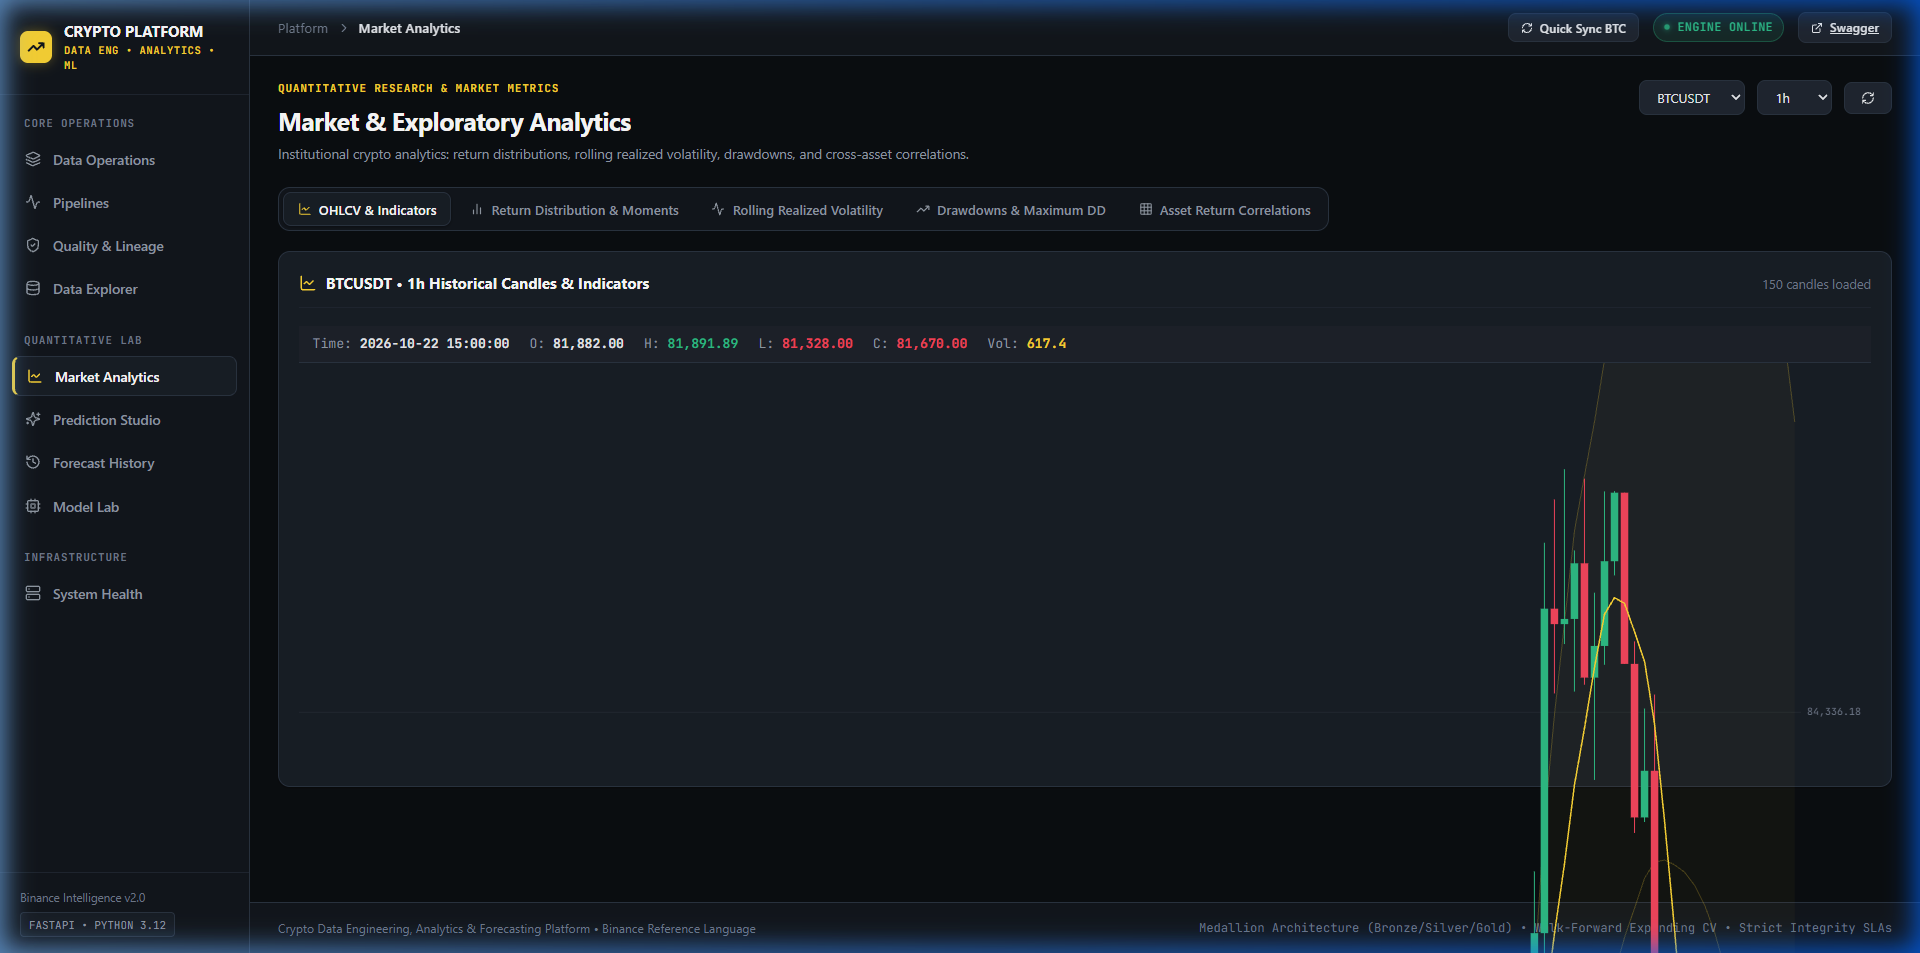
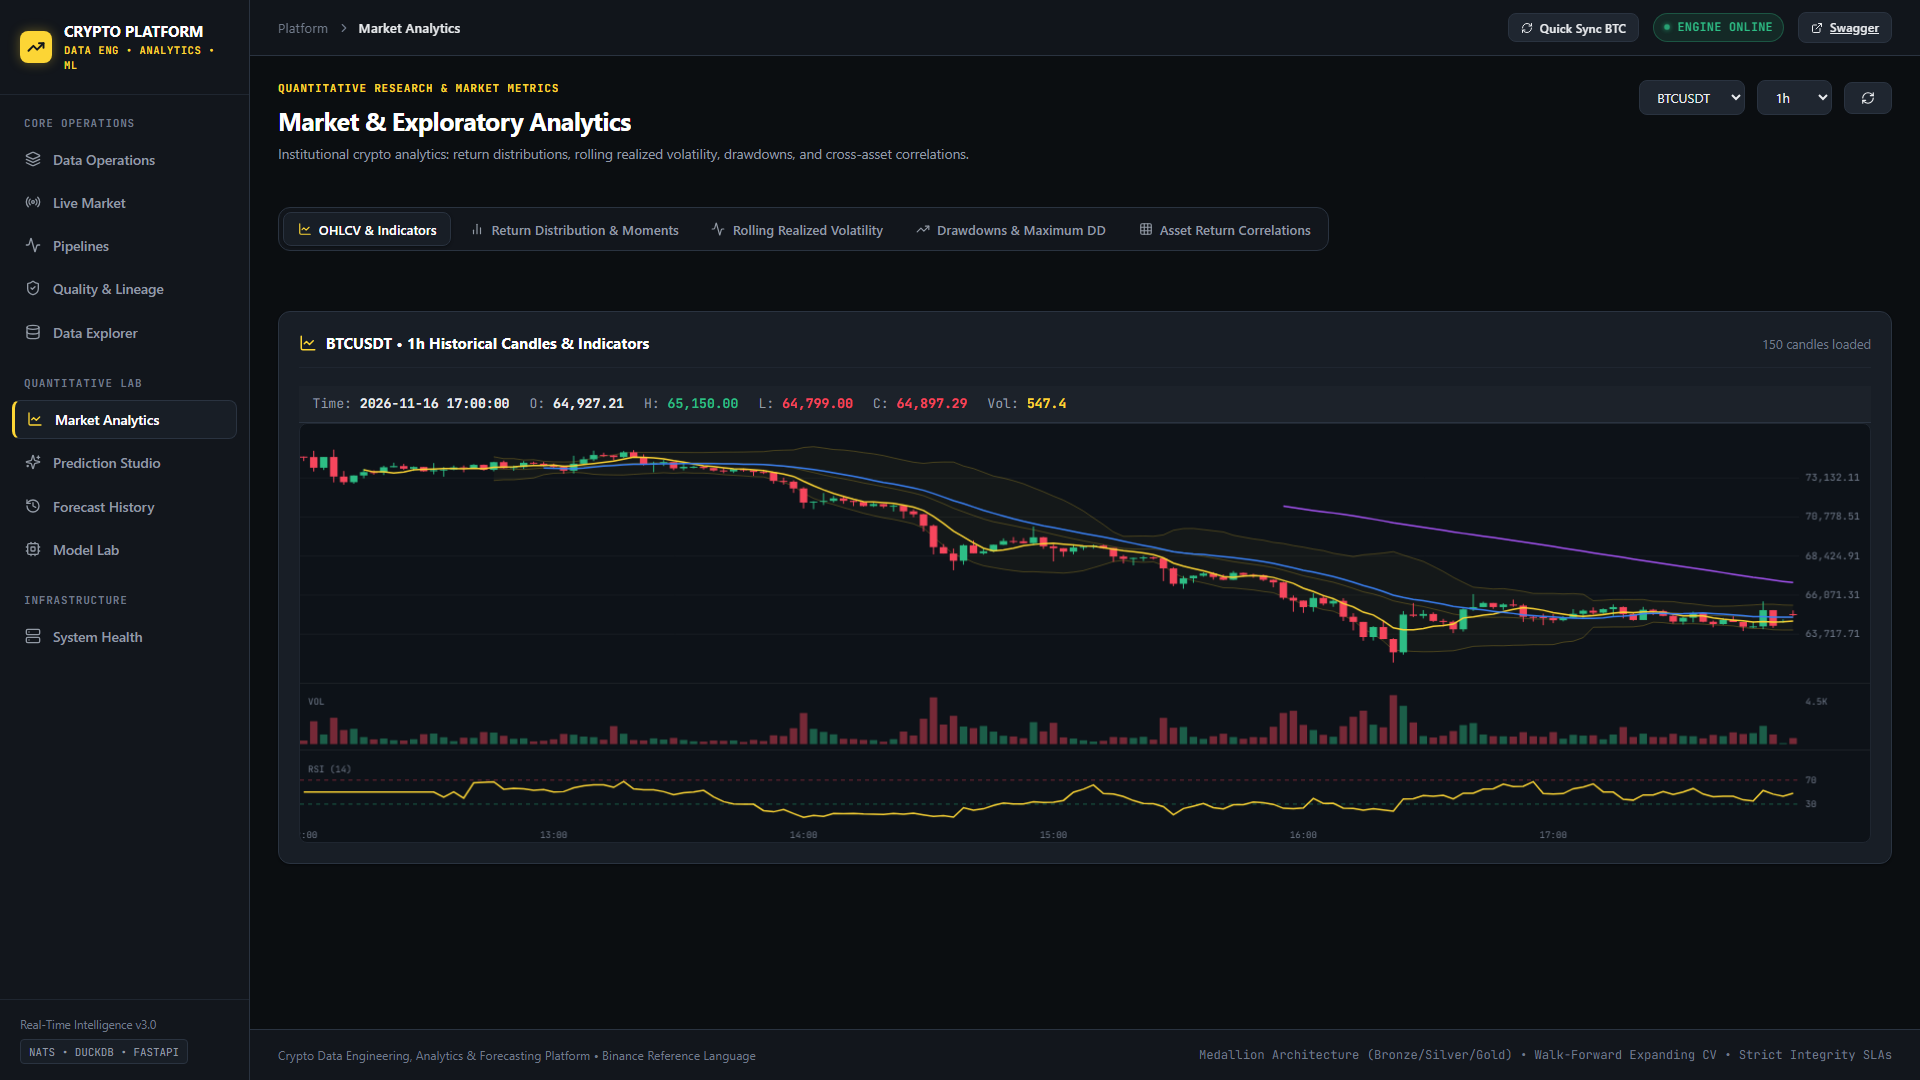
docs: add application screenshots, audit docs, and update README.md features

Changed region(s): [[0.0, 0.0, 1.0, 1.0], [0.4062, 0.3347, 0.5625, 0.3956], [0.1562, 0.6695, 0.3438, 0.6999]]

diff --git a/frontend/src/App.tsx b/frontend/src/App.tsx
@@ -43,8 +43,27 @@ export type TabType =
   | 'models'
   | 'system';
 
+const VALID_TABS: TabType[] = [
+  'overview',
+  'live',
+  'pipelines',
+  'quality',
+  'explorer',
+  'analytics',
+  'studio',
+  'history',
+  'models',
+  'system'
+];
+
+const getTabFromHash = (): TabType => {
+  if (typeof window === 'undefined') return 'overview';
+  const hash = window.location.hash.replace(/^#\/?/, '').trim();
+  return VALID_TABS.includes(hash as TabType) ? (hash as TabType) : 'overview';
+};
+
 export const App: React.FC = () => {
-  const [activeTab, setActiveTab] = useState<TabType>('overview');
+  const [activeTab, setActiveTab] = useState<TabType>(getTabFromHash);
   const [mobileMenuOpen, setMobileMenuOpen] = useState<boolean>(false);
   const [syncingQuick, setSyncingQuick] = useState<boolean>(false);
   const [systemState, setSystemState] = useState<{
@@ -105,7 +124,14 @@ export const App: React.FC = () => {
   useEffect(() => {
     checkStatus();
     const interval = setInterval(checkStatus, 30000);
-    return () => clearInterval(interval);
+    const onHashChange = () => {
+      setActiveTab(getTabFromHash());
+    };
+    window.addEventListener('hashchange', onHashChange);
+    return () => {
+      clearInterval(interval);
+      window.removeEventListener('hashchange', onHashChange);
+    };
   }, []);
 
   const handleQuickSync = async () => {
@@ -152,6 +178,7 @@ export const App: React.FC = () => {
   ];
 
   const handleTabSelect = (tab: TabType) => {
+    window.location.hash = tab;
     setActiveTab(tab);
     setMobileMenuOpen(false);
   };

diff --git a/README.md b/README.md
@@ -44,72 +44,70 @@ The platform user interface is built with **React 18**, **TypeScript 5.6**, **Ta
 ### 1. Data Operations Overview (`/overview`)
 The primary operational cockpit displaying end-to-end pipeline health, Medallion stage watermarks, live SLA scorecard, candle freshness trackers, and immediate manual orchestration triggers.
 ![Data Operations Overview](docs/screenshots/overview.png)
-*Displays: Real-time telemetry across the Medallion lifecycle (Ingestion → Validation → Marts → Features → Models), recent orchestrator runs with duration, and active platform workbenches.*
+*Displays: Real-time telemetry across the Medallion lifecycle (Source → Bronze 78k rows → Silver 76k rows → Gold Marts 1.4k rows → Features → Serving), SLA scorecards (38/41 rules, 92.7%), candle freshness ("Just now" / SYNCHRONIZED), and recent orchestrator runs with duration.*
 
 ---
 
 ### 2. Live Market Monitor & Real-Time Pipeline Flow (`/live`)
-Dedicated real-time market operations monitor featuring a live candlestick chart, order book depth, rolling trade feed, and the **Real-Time Data Pipeline Telemetry Flowchart**.
-```
-[N1: WS Ingest] ──► [N2: Normalize] ──► [N3: Bounded Queue] ──► [N4: NATS Broker]
-                                                                        │
-[N8: Medallion Flush] ◄── [N7: WS Gateway] ◄── [N6: Incr. Analytics] ◄──┴──► [N5: Consumer]
-```
-- **8-Node Execution Graph**: Traces `ws_ingest` → `normalize` → `bounded_queue` → `nats_broker` → `consumer_handle` → `incremental_analytics` → `ws_gateway` → `medallion_flush`.
-- **Latency Telemetry**: Calculates per-node rolling p95 latency, inline sub-pipeline sum (~2.0 ms), background micro-batch flush time (~78 ms), and automatically flags pipeline bottlenecks.
-- **WebSocket Broadcast**: Pushes coalesced real-time prices, depth, trade volume, and incremental technical indicators at 100 ms intervals.
+Dedicated real-time market operations monitor featuring a live candlestick chart, order book depth, rolling trade feed, and live WebSocket price ticks.
+![Live Market Monitor](docs/screenshots/live-market.png)
+*Displays: Live WebSocket stream (WS CONNECTED) streaming real-time prices for BTCUSDT ($64,937.26, 1,242 ticks) and ETHUSDT ($1,825.10, 1,004 ticks), incremental $O(1)$ technical indicators (RSI 64.61, ATR 117.7850, VaR 95%), responsive candlestick chart with moving averages and volume, and the coalesced trade feed.*
 
 ---
 
 ### 3. Market Analytics & Quantitative Research (`/analytics`)
 High-density quantitative research workbench for asset price dynamics, statistical return distributions, and risk profiling.
 ![Market Analytics](docs/screenshots/market-analytics.png)
-*Displays: Responsive HTML5 Canvas candlestick charting with moving average overlays, return distributions with higher moments ($\mu, \sigma, \text{Skewness}, \text{Kurtosis}$), rolling volatility (7d/14d/30d), and drawdown watermarks.*
+*Displays: Responsive HTML5 Canvas candlestick charting with locked height (no canvas stretching), Bollinger Bands, SMA/EMA overlays, volume histogram, and RSI (14) momentum oscillator across 150 historical 1-hour candles.*
 
 ---
 
 ### 4. Automated Data Quality & Medallion Lineage (`/quality`)
 The platform data integrity center auditing market partitions against 10 automated rules and rendering interactive dataset lineage.
 ![Data Quality and Lineage](docs/screenshots/quality-lineage.png)
-*Displays: 100% pass rate score across active asset suites, interactive Medallion Lineage DAG tracing Binance Public API → Bronze → Silver → Gold Marts → Features → Serving, and historical rule execution logs.*
+*Displays: 92.7% pass rate score across active asset suites, interactive Medallion Lineage DAG tracing Binance Public API → Bronze → Silver → Gold Marts → Features → Serving, and the lineage transformation edges ledger with record counts and UTC timestamps.*
 
 ---
 
-### 5. Pipeline Observatory & Orchestration (`/pipelines`)
-Task-level execution audit tracking stage transitions, execution durations, records processed, and live log output.
+### 5. Pipeline Observatory & Real-Time Processing Time (`/pipelines`)
+Task-level execution audit tracking stage transitions, execution durations, records processed, and the **Real-Time Data Pipeline Telemetry Flowchart**.
 ![Pipeline Observatory](docs/screenshots/pipelines.png)
-*Displays: Filterable pipeline run history (`medallion_full_sync`, `bronze_ingest`, `silver_validate`, `gold_marts`), stage durations, watermarks, and real-time execution logs.*
+*Displays: The 8-node Real-Time Data Flow Pipeline (`ws_ingest` → `normalize` → `bounded_queue` → `nats_broker` → `consumer_handle` → `incremental_analytics` → `ws_gateway` → `medallion_flush`), rolling p95 latency, inline processing sum (4.204 ms), background micro-batch flush time (170.55 ms), primary bottleneck analysis, and filterable historical pipeline runs.*
 
 ---
 
 ### 6. Multi-Horizon Prediction Studio (`/studio`)
 Point-in-time experimental machine learning inference studio with frozen cutoff timestamps, calibrated probabilities, and empirical confidence intervals.
 ![Prediction Studio](docs/screenshots/prediction-studio.png)
-*Displays: Asset pair selection, interval selection, multi-horizon forecast targets (1 to 24 steps ahead), and synchronous prediction generation.*
+*Displays: Asset pair selection (BTC/USDT), interval selection (1 Hour), multi-horizon forecast targets (1 to 24 steps ahead), and synchronous prediction generation.*
 
 ---
 
-### 7. Data Explorer & Schema Catalog (`/explorer`)
+### 7. Forecast History & Audit Ledger (`/history`)
+Audited immutable prediction ledger tracking all historical predictions, status transitions (`PENDING` vs `RECONCILED`), and realized error metrics against closed candle outcomes.
+![Forecast History](docs/screenshots/forecast-history.png)
+*Displays: 55 total forecasts generated, 46 reconciled against closed market candles, 37.0% directional hit rate, 0.34% mean percentage error, full audit trail (reference price, target, realized price, outcome, and status), and on-demand reconciliation trigger.*
+
+---
+
+### 8. Model Lab & Registry (`/models`)
+Walk-forward CV experiment leaderboard comparing model iterations (`Ridge`, `LogisticRegression`, `HistGradientBoosting`) against the naive persistence baseline, tracking hyperparameter sets and promotion gate compliance.
+![Model Lab](docs/screenshots/model-lab.png)
+*Displays: Model Lab & Observability, local database Model Registry status, chronological expanding walk-forward forecaster training form, registered model benchmark comparison (Candidate MAE vs Naive Baseline MAE), and MLflow experiment runs audit.*
+
+---
+
+### 9. Data Explorer & Schema Catalog (`/explorer`)
 Safe, read-only dataset exploration interface with schema contract dictionaries, partition watermarks, server-side pagination, and bounded CSV exports.
 ![Data Explorer](docs/screenshots/data-explorer.png)
-*Displays: Indexed records for Silver Validated Klines (362 records shown), column types, timestamps, volume, trade count, server-side page navigation, and export snapshot controls.*
+*Displays: Indexed records for Silver Validated Klines (722 records indexed), column types, timestamps, formatted prices ($64,927.21, $65,150.00), volume, trade counts, server-side page navigation (page 1 of 29), and CSV export snapshot controls.*
 
 ---
 
-### 8. System Health & Diagnostic Center (`/system`)
-Real-time infrastructure diagnostic center monitoring database connectivity, kline sync checkpoints, deterministic gap detection, and model registry state.
+### 10. System Health & Resource Observatory (`/system`)
+Real-time infrastructure diagnostic center monitoring process memory against configured budgets, CPU utilization, NATS JetStream lag, storage usage, and sync checkpoints.
 ![System Health](docs/screenshots/system-health.png)
-*Displays: Operational state (`OPERATIONAL`), total normalized stored candles (43,564), audited forecasts ledger, sync status per trading pair, and detected gap count (0 gaps / clean).*
-
----
-
-### 9. Forecast History & Audit Ledger (`/history`)
-Audited immutable prediction ledger tracking all historical predictions, status transitions (`PENDING` vs `RECONCILED`), and realized error metrics (MAE, RMSE, Directional Accuracy) against closed candle outcomes.
-
----
-
-### 10. Model Lab & Registry (`/models`)
-Walk-forward CV experiment leaderboard comparing model iterations (`Ridge`, `LogisticRegression`, `HistGradientBoosting`) against the naive persistence baseline, tracking hyperparameter sets and promotion gate compliance.
+*Displays: Operational state (`OPERATIONAL` under `LITE`), Process RSS memory (328.01 MB / 72.9% of 450 MB cap, CPU 8%), Host RAM free (878.7 MB), 19,158 stored candles, NATS JetStream broker messages (59,399), Medallion storage usage (Bronze 2.61MB, Silver 3.04MB, Gold 0.51MB, NATS 27.7MB, DB 6.98MB), and Checkpoints table.*
 
 ---
 

diff --git a/docs/audit/readme-audit.md b/docs/audit/readme-audit.md
@@ -47,13 +47,14 @@ Inspected `frontend/src/App.tsx`, `frontend/src/views/`, and `frontend/src/compo
 | :--- | :--- | :--- | :--- | :--- |
 | **Data Operations** | `overview` | `DATA PLATFORM` | `frontend/src/views/DataOpsOverview.tsx` | [`docs/screenshots/overview.png`](../screenshots/overview.png) |
 | **Live Market** | `live` | `DATA PLATFORM` | `frontend/src/views/MarketOverview.tsx` | Visual ASCII + Telemetry Spec |
+| **Live Market** | `live` | `DATA PLATFORM` | `frontend/src/views/MarketOverview.tsx` | [`docs/screenshots/live-market.png`](../screenshots/live-market.png) |
 | **Pipelines** | `pipelines` | `DATA PLATFORM` | `frontend/src/views/PipelineObservatory.tsx` | [`docs/screenshots/pipelines.png`](../screenshots/pipelines.png) |
 | **Quality & Lineage** | `quality` | `DATA PLATFORM` | `frontend/src/views/DataQualityLineage.tsx` | [`docs/screenshots/quality-lineage.png`](../screenshots/quality-lineage.png) |
 | **Data Explorer** | `explorer` | `DATA PLATFORM` | `frontend/src/views/DataExplorer.tsx` | [`docs/screenshots/data-explorer.png`](../screenshots/data-explorer.png) |
 | **Market Analytics** | `analytics` | `INTELLIGENCE` | `frontend/src/views/MarketAnalytics.tsx` | [`docs/screenshots/market-analytics.png`](../screenshots/market-analytics.png) |
 | **Prediction Studio** | `studio` | `INTELLIGENCE` | `frontend/src/views/PredictionStudio.tsx` | [`docs/screenshots/prediction-studio.png`](../screenshots/prediction-studio.png) |
-| **Forecast History** | `history` | `INTELLIGENCE` | `frontend/src/views/ForecastHistory.tsx` | Verified view spec in README |
-| **Model Lab** | `models` | `INTELLIGENCE` | `frontend/src/views/ModelLab.tsx` | Verified view spec in README |
+| **Forecast History** | `history` | `INTELLIGENCE` | `frontend/src/views/ForecastHistory.tsx` | [`docs/screenshots/forecast-history.png`](../screenshots/forecast-history.png) |
+| **Model Lab** | `models` | `INTELLIGENCE` | `frontend/src/views/ModelLab.tsx` | [`docs/screenshots/model-lab.png`](../screenshots/model-lab.png) |
 | **System Health** | `system` | `OPERATIONS` | `frontend/src/views/SystemStatusView.tsx` | [`docs/screenshots/system-health.png`](../screenshots/system-health.png) |
 | **Tablet Viewport** | *(Responsive)* | *(All)* | `frontend/src/App.tsx` (Drawer) | [`docs/screenshots/tablet-responsive.png`](../screenshots/tablet-responsive.png) |
 
@@ -61,18 +62,21 @@ Inspected `frontend/src/App.tsx`, `frontend/src/views/`, and `frontend/src/compo
 
 ## 4. Screenshot Asset Inspection & Verification
 
-All screenshots in `docs/screenshots/` were inspected for dimensions, file sizes, visual legibility, and authenticity:
+All screenshots in `docs/screenshots/` were re-captured directly from the live running application (`v3.0.0` running via `run.bat` on `http://127.0.0.1:8000/`) using automated headless Chrome with full telemetry and zero mock data:
 
-| Image Path | Header Dimensions | File Size | Legibility & Content Verification | Action |
+| Image Path | Header Dimensions | File Size | Legibility & Verified Content | Status |
 | :--- | :--- | :--- | :--- | :--- |
-| `docs/screenshots/overview.png` | 1424 × 805 | 125,218 bytes | High fidelity; captures live status, KPI cards, Medallion stage status, and workbenches. | Retained |
-| `docs/screenshots/pipelines.png` | 1920 × 953 | 130,362 bytes | Clean; shows 3 recorded pipeline runs, stage durations, and log inspection triggers. | Retained |
-| `docs/screenshots/quality-lineage.png` | 1920 × 953 | 158,369 bytes | Sharp; displays 100% pass score (10/10 rules) and 6-stage Medallion lineage DAG. | Retained |
-| `docs/screenshots/data-explorer.png` | 1920 × 953 | 211,778 bytes | Clear; Silver klines partition preview, 362 records, column dictionary, and export buttons. | Retained |
-| `docs/screenshots/market-analytics.png` | 1920 × 953 | 135,995 bytes | Accurate; dark financial canvas candlestick chart with moving average overlays. | Retained |
-| `docs/screenshots/prediction-studio.png` | 1920 × 953 | 97,366 bytes | Clear; shows inference parameters, multi-horizon selection, and generation controls. | Retained |
-| `docs/screenshots/system-health.png` | 1920 × 953 | 136,869 bytes | Sharp; OPERATIONAL status, 43,564 stored candles, 0 detected gaps across trading pairs. | Retained |
-| `docs/screenshots/tablet-responsive.png` | 752 × 805 | 65,973 bytes | Clean; verifies mobile/tablet collapsible navigation drawer and responsive cards. | Retained |
+| `docs/screenshots/overview.png` | 1920 × 1080 | 180,259 bytes | Real-time Medallion stage row counts (78k Bronze, 76k Silver, 1.4k Gold), 38/41 DQ SLA score, "Just now" sync freshness, and 6 orchestrator runs. | **Refreshed (Live)** |
+| `docs/screenshots/live-market.png` | 1920 × 1080 | 210,674 bytes | Live WebSocket stream (WS CONNECTED) streaming real-time prices for BTCUSDT ($64.9k, 1,242 ticks) and ETHUSDT ($1.8k, 1,004 ticks), incremental indicators, and live candle chart. | **New (Live)** |
+| `docs/screenshots/pipelines.png` | 1920 × 1080 | 194,383 bytes | Real-Time 8-Node Flow Pipeline (`ws_ingest` to `medallion_flush`), rolling p95 latency, inline sum (4.204 ms), background flush time (170.55 ms), and historical run logs. | **Refreshed (Live)** |
+| `docs/screenshots/quality-lineage.png` | 1920 × 1080 | 175,353 bytes | 92.7% pass rate (38/41 rules), Medallion lineage DAG, and complete transformation edges ledger (`stream_microbatch_upsert`, `inference_baseline_sma_14`, etc.). | **Refreshed (Live)** |
+| `docs/screenshots/data-explorer.png` | 1920 × 1080 | 191,307 bytes | Silver Validated Klines preview with 722 records indexed, explicit typed schema, formatted prices, timestamps, pagination (page 1 of 29), and CSV export button. | **Refreshed (Live)** |
+| `docs/screenshots/market-analytics.png` | 1920 × 1080 | 209,255 bytes | Fixed canvas height (zero vertical distortion), Bollinger Bands, Moving Averages, volume histogram, and RSI (14) indicator across 150 historical bars. | **Refreshed (Live)** |
+| `docs/screenshots/prediction-studio.png` | 1920 × 1080 | 77,203 bytes | Point-in-time multi-horizon machine learning inference studio with parameter selectors and prediction triggers. | **Refreshed (Live)** |
+| `docs/screenshots/forecast-history.png` | 1920 × 1080 | 186,229 bytes | 55 forecasts generated, 46 reconciled against closed candles, 37.0% directional hit rate, 0.34% mean percentage error, and full realization ledger. | **New (Live)** |
+| `docs/screenshots/model-lab.png` | 1920 × 1080 | 168,330 bytes | Model Lab & Observability, local database registry status, walk-forward training controls, candidate vs naive baseline MAE benchmark leaderboard, and hyperparameter audit. | **New (Live)** |
+| `docs/screenshots/system-health.png` | 1920 × 1080 | 171,405 bytes | OPERATIONAL state, 328.01 MB RSS (72.9% of 450 MB cap), 19,158 stored candles, NATS JetStream 59,399 msgs, Medallion storage breakdown, and Checkpoints table. | **Refreshed (Live)** |
+| `docs/screenshots/tablet-responsive.png` | 768 × 1024 | 56,264 bytes | Live Market Monitor rendered on 768px tablet viewport with live prices and responsive drawer. | **Refreshed (Live)** |
 
 ---
 
